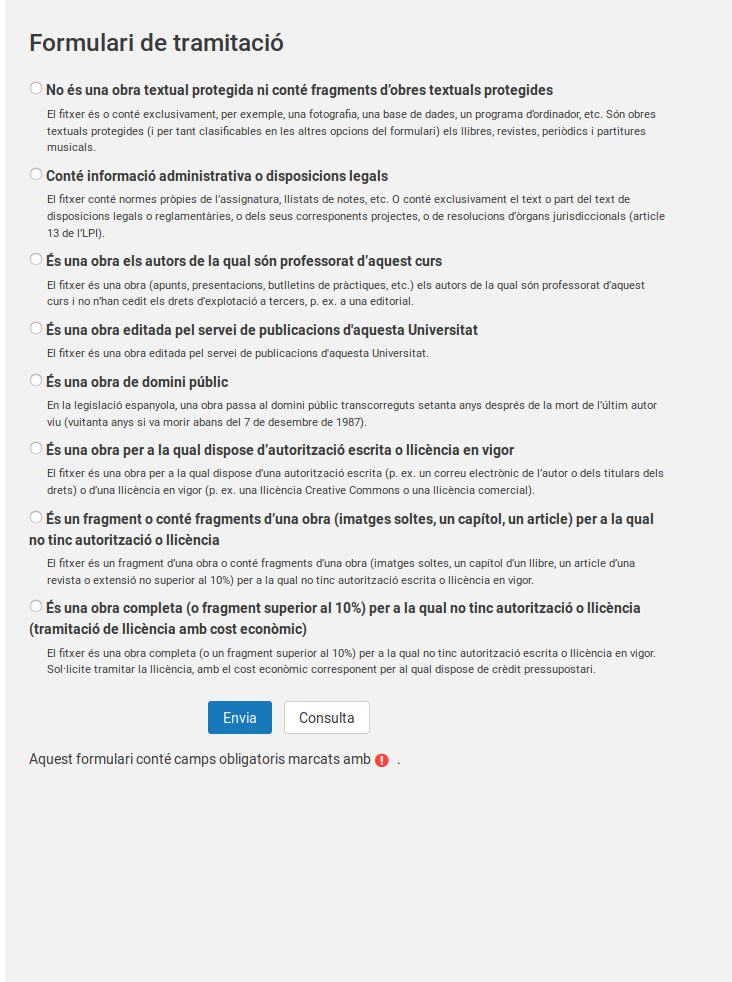
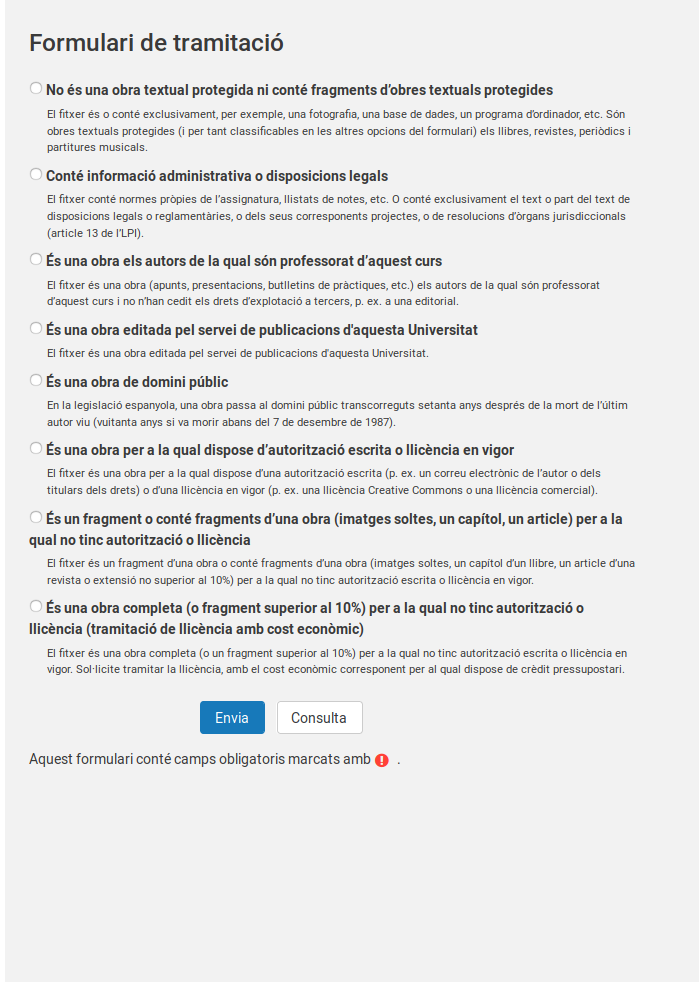
Corregido texto de ayuda de primera opción de formulario de tramitación

Changed region(s): [[0.03, 0.0305, 0.9013, 0.7943]]

diff --git a/guia_val.md b/guia_val.md
@@ -315,7 +315,7 @@ Estudiem detingudament cadascuna de les opcions:
 
 El sistema ha suposat incorrectament que el fitxer conté una obra o un fragment d'una obra impresa o susceptible de ser-ho. Seleccionant aquesta opció el document es classifica como d'altra naturalesa.
 
-El fitxer és o conté exclusivament, per exemple, una fotografia, una base de dades, un programa d’ordinador, etc. Són obres textuals protegides (i per tant clasificables en les altres opcions del formulari) els llibres, revistes, periòdics i partitures musicals.
+El fitxer és o conté exclusivament, per exemple, una fotografia, una base de dades, un programa d’ordinador, etc. Són obres textuals protegides (i per tant classificables en les altres opcions del formulari) els llibres, revistes, periòdics i partitures musicals.
 
 #### Opció 2: "Conté informació administrativa o disposicions legals"
 
